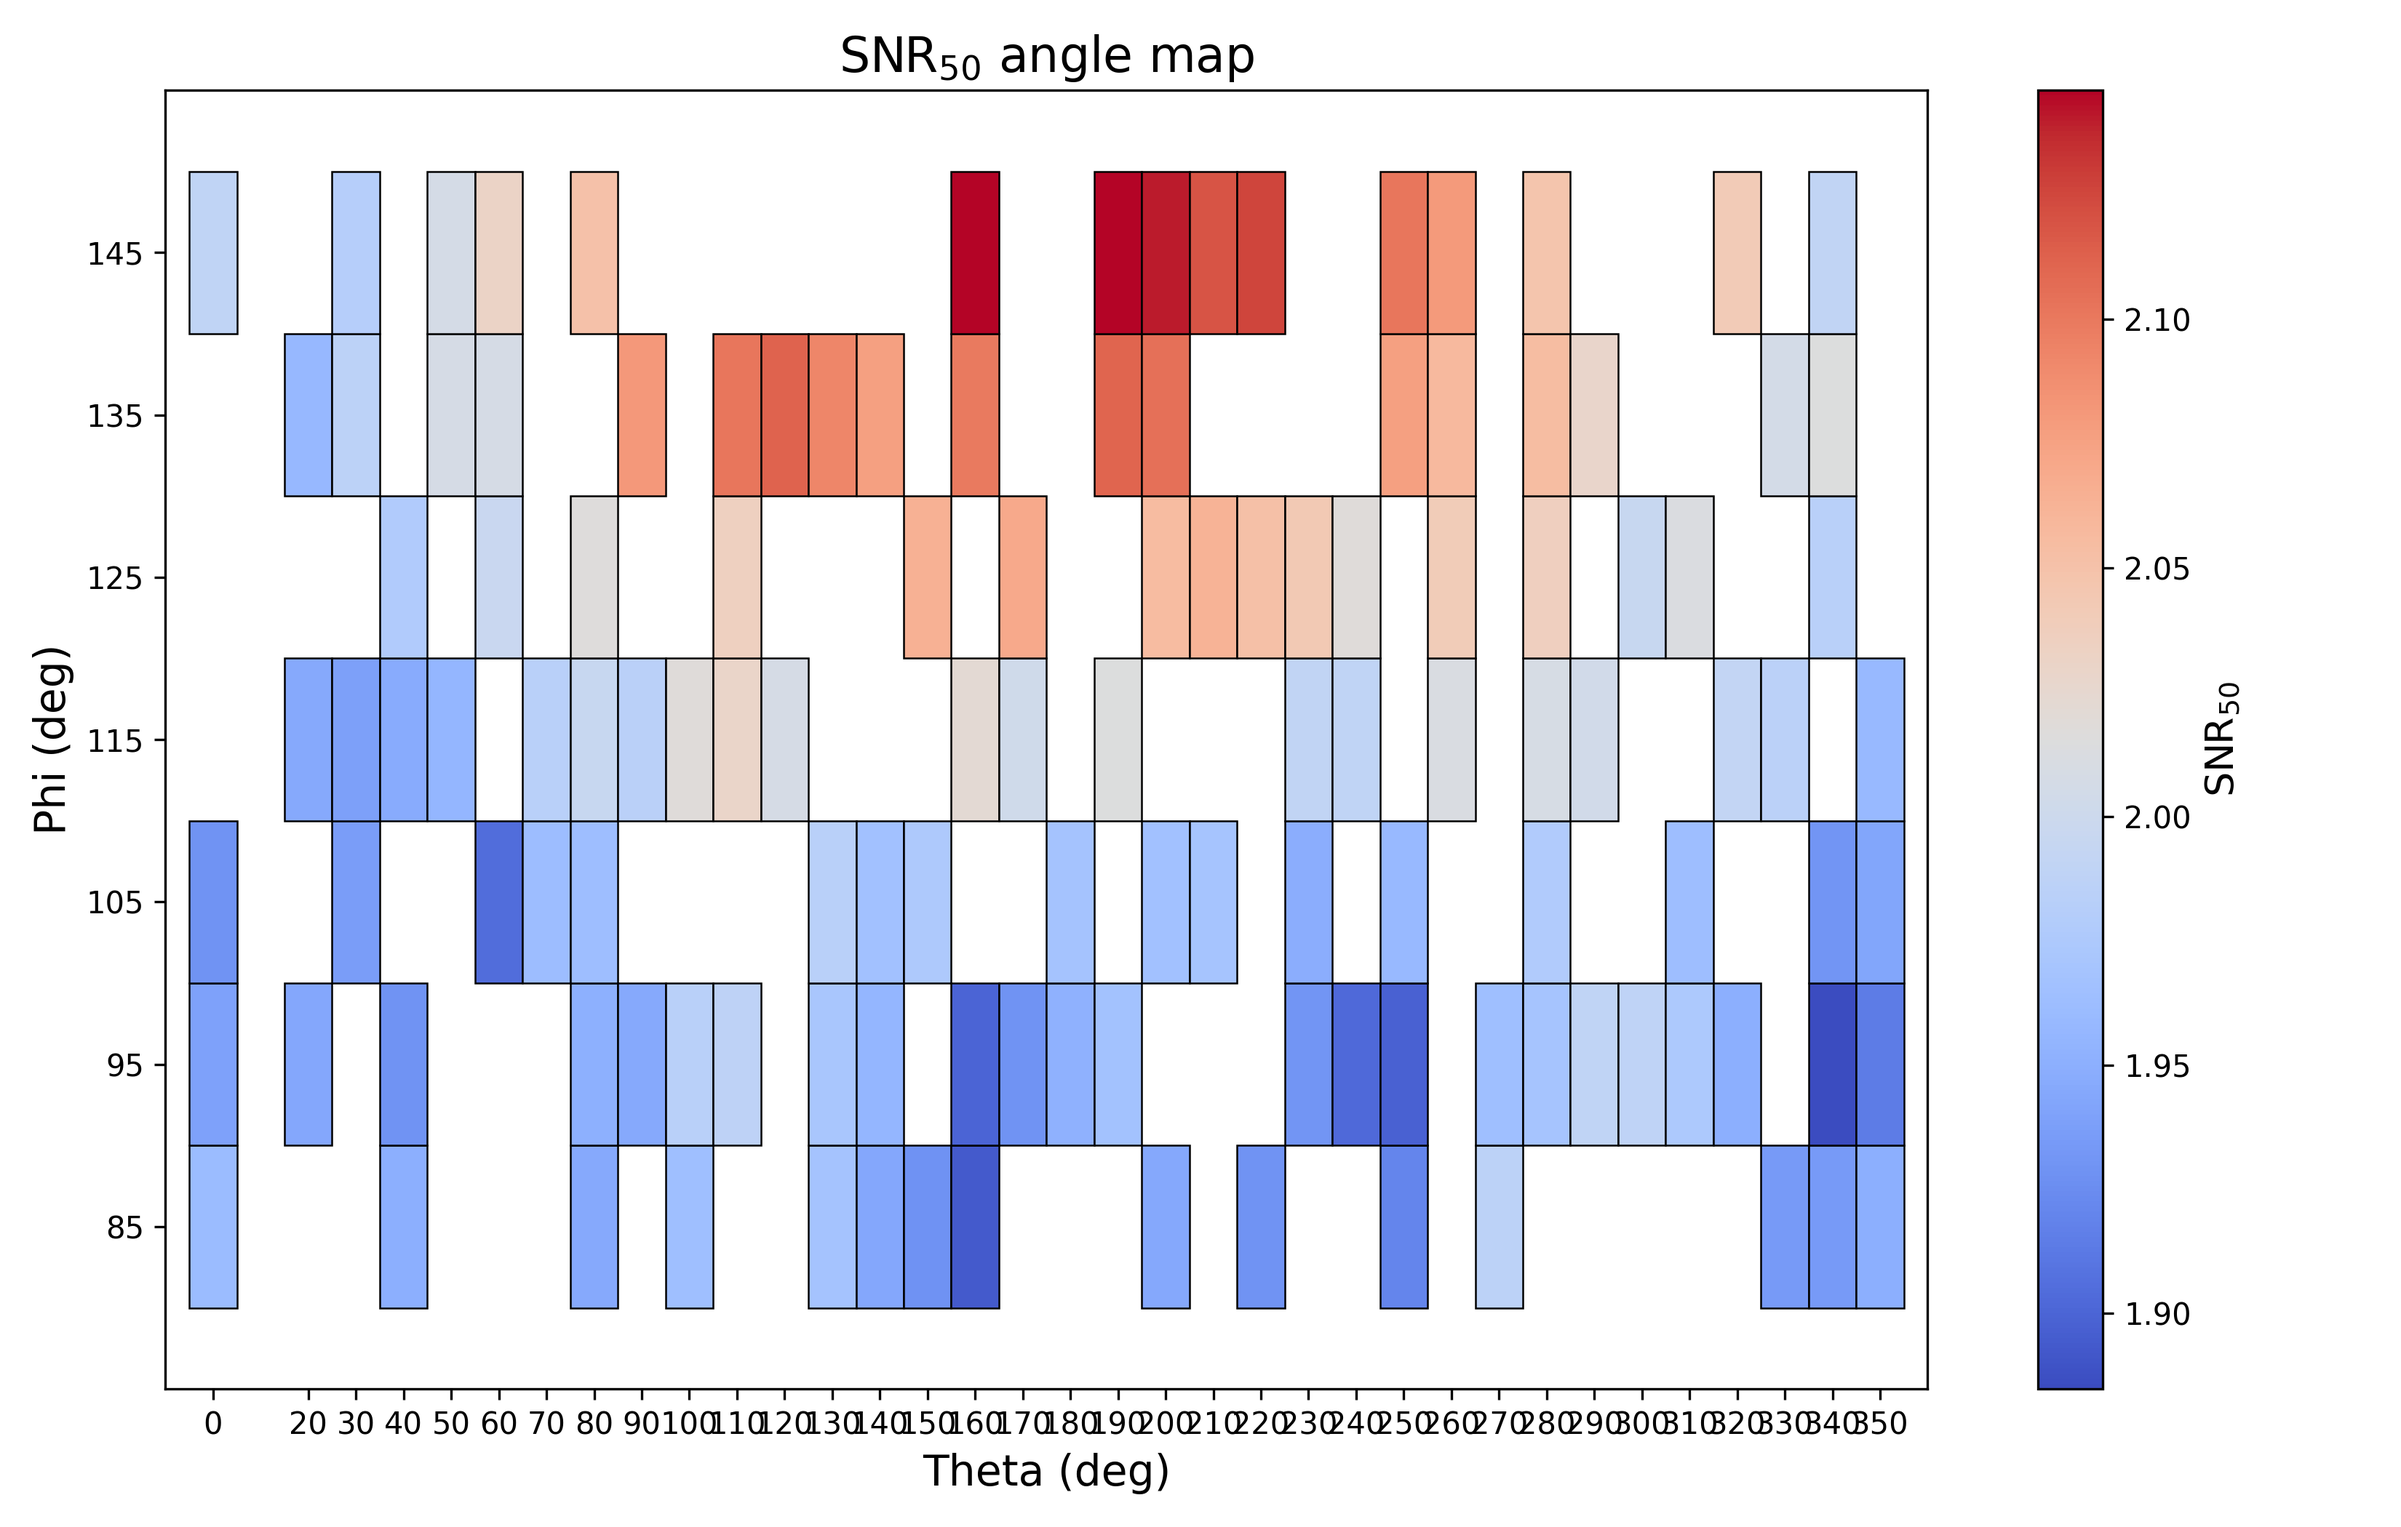
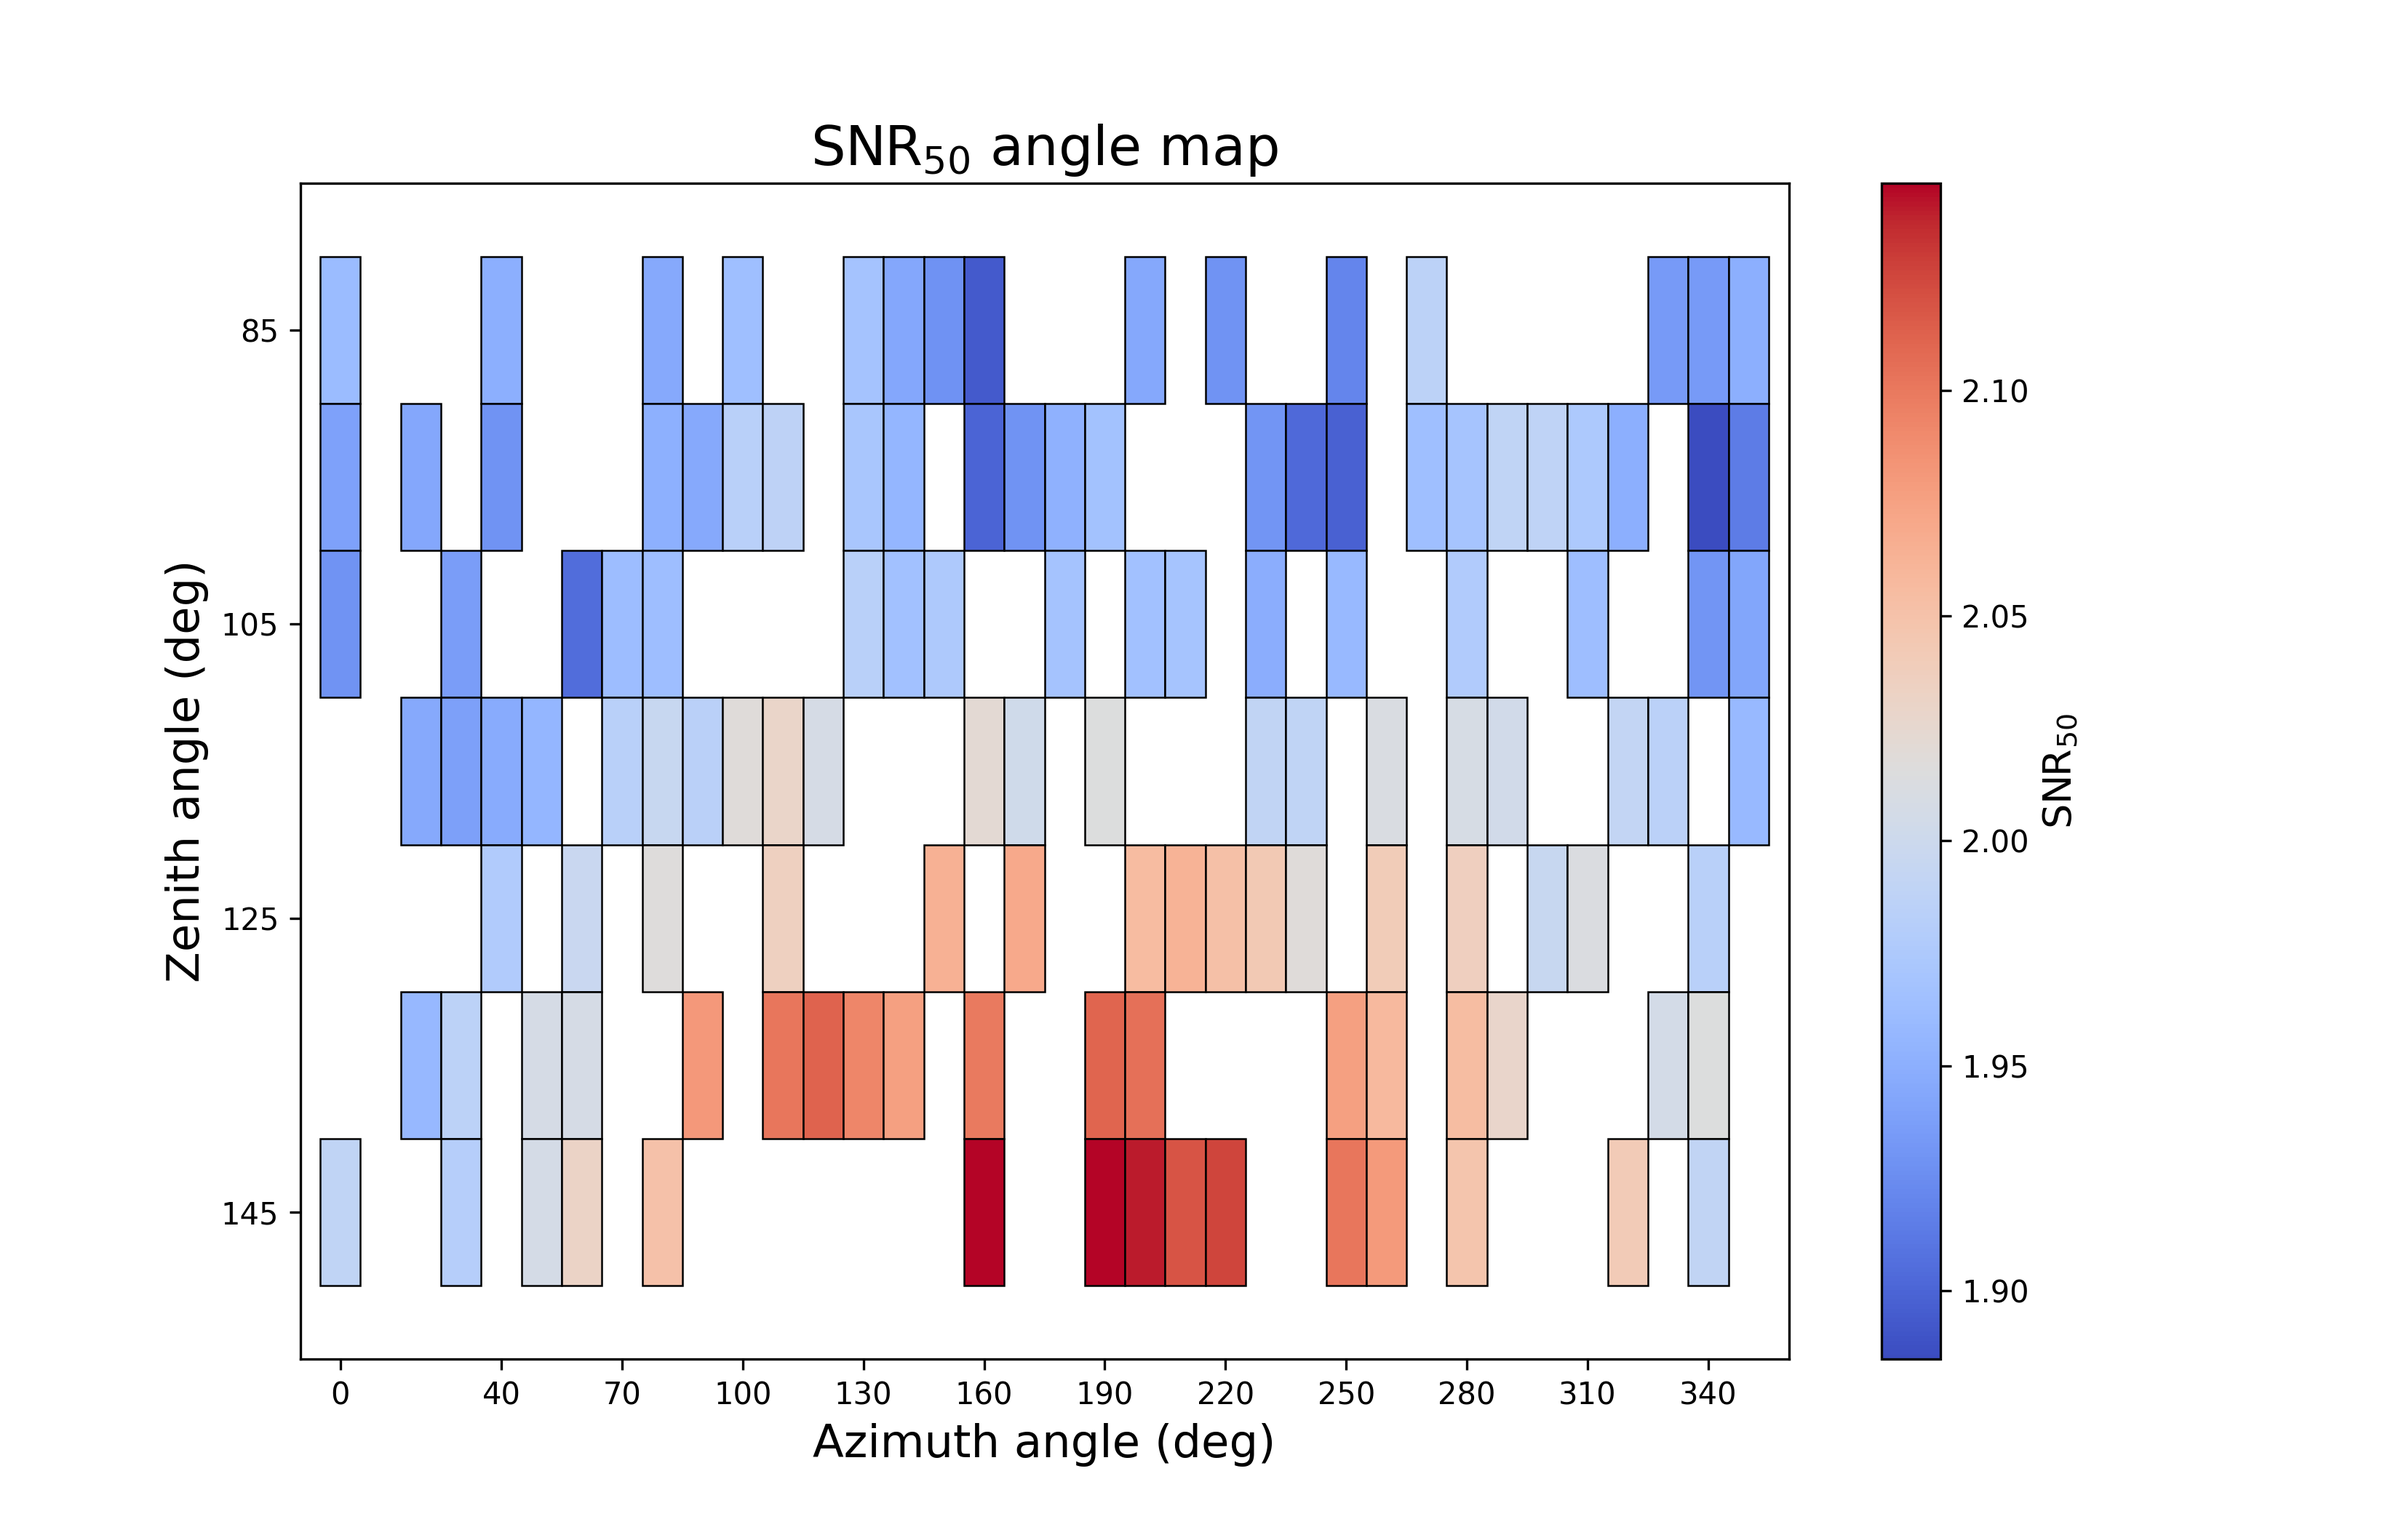
update

diff --git a/ARA_event_based_simulation_V4/analyze_angle_scan_table_output.py b/ARA_event_based_simulation_V4/analyze_angle_scan_table_output.py
@@ -11,12 +11,12 @@ from matplotlib.cm import ScalarMappable
 # ============================================================
 # User settings
 # ============================================================
-IN_JSON = Path("efficiency_scan_50per_results.json").resolve()
+IN_JSON = Path("efficiency_scan_100per_results.json").resolve()
 OUT_JSON = Path("snr50_all_angles_results.json").resolve()
-OUT_PLOT = Path("snr50_angle_map.png").resolve()
+OUT_PLOT = Path("snr50_angle_map_100per.png").resolve()
 
-THETA_BIN_WIDTH = 10.0   # deg
-PHI_BIN_WIDTH = 10.0     # deg
+THETA_BIN_WIDTH = 25.0   # deg
+PHI_BIN_WIDTH = 8.0     # deg
 
 
 # ============================================================
@@ -177,9 +177,9 @@ def make_angle_map_plot(fit_rows, out_plot, theta_bin_width, phi_bin_width):
         )
         ax.add_patch(rect)
 
-    ax.set_xlabel("Theta (deg)", fontsize=14)
-    ax.set_ylabel("Phi (deg)", fontsize=14)
-    ax.set_title(r"SNR$_{50}$ angle map", fontsize=16)
+    ax.set_xlabel("Azimuth angle (deg)", fontsize=15)
+    ax.set_ylabel("Zenith angle (deg)", fontsize=15)
+    ax.set_title(r"SNR$_{50}$ angle map", fontsize=18)
 
     # sensible limits from actual populated bins
     ax.set_xlim(
@@ -191,9 +191,12 @@ def make_angle_map_plot(fit_rows, out_plot, theta_bin_width, phi_bin_width):
         np.max(phi_vals) + phi_bin_width
     )
 
-    # nice ticks based on actual values
-    ax.set_xticks(np.unique(theta_vals))
-    ax.set_yticks(np.unique(phi_vals))
+    #ticks to print every other tick to avoid clutter
+    ax.set_xticks(np.unique(theta_vals)[::3])
+    ax.set_yticks(np.unique(phi_vals)[::2])
+
+    #flip the y-axis so that phi=0 is at the bottom and phi increases upwards
+    ax.invert_yaxis()
 
     ax.grid(False)
 
@@ -202,7 +205,6 @@ def make_angle_map_plot(fit_rows, out_plot, theta_bin_width, phi_bin_width):
     cbar = plt.colorbar(sm, ax=ax)
     cbar.set_label(r"SNR$_{50}$", fontsize=13)
 
-    plt.tight_layout()
     plt.savefig(out_plot, dpi=300)
     plt.close()
 
